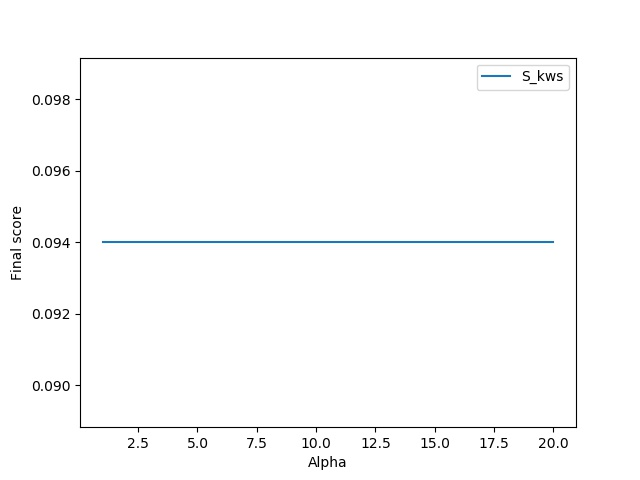
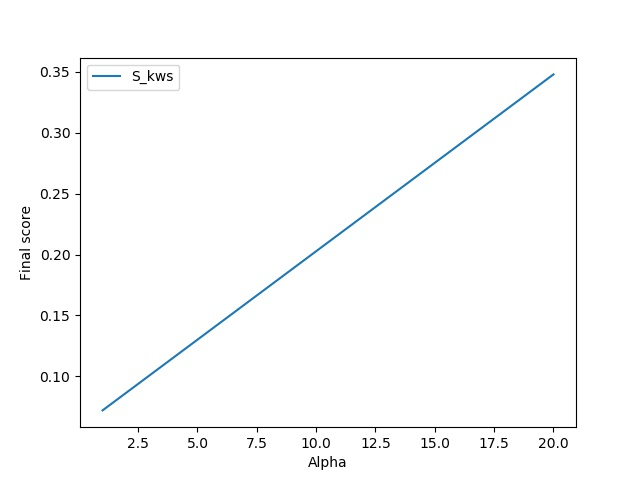
Use cut audio by kws instead of raw audio to determine sv threshold.  Update the final scores.

diff --git a/sv_part/inference.py b/sv_part/inference.py
@@ -72,8 +72,8 @@ parser.add_argument('--nOut',           type=int,   default=512,    help='Embedd
 
 ## inference parameters
 parser.add_argument('--trials_list',    type=str,   default="",     help='trials file for pvtc');
-parser.add_argument('--utt2wav',        type=str,   default="",     help='flie path for trails data')
-parser.add_argument('--uttpath',        type=str,   default="",     help='flie path for trails data')
+parser.add_argument('--devdatapath',    type=str,   default="",     help='flie path for dev data')
+parser.add_argument('--uttpath',        type=str,   default="",     help='flie path for splited data')
 parser.add_argument('--utt2label',      type=str,   default="",     help='judgement result from kws system')
 parser.add_argument('--eolembd_save',   type=str,   default="",     help='save path for enrollment embds')
 parser.add_argument('--save_dic',       type=bool,  default=True,    help='whether save embds for enrollment data')
@@ -203,7 +203,7 @@ if args.inference == True:
     if(os.path.exists(eolembd_savepath)):
         enroll_dic = numpy.load(eolembd_savepath,allow_pickle=True).item()
     else:
-        enroll_dic = s.enrollment_dic_kwsTrials(args.trials_list,args.uttpath,utt2label,eolembd_savepath,10,save_dic=args.save_dic)
+        enroll_dic = s.enrollment_dic_kwsTrials(args.trials_list,args.devdatapath,utt2label,eolembd_savepath,10,save_dic=args.save_dic)
 
     output_score = []
     labels = []
@@ -213,8 +213,7 @@ if args.inference == True:
 
 
     tsatrt = time.time()
-    for line in tqdm.tqdm(lines[0:40000]):
-        # Only use 40000 lines of trial file, because the back contains stitched audio
+    for line in tqdm.tqdm(lines):
         data = line.strip().split()
         final_labels.append(data[4])
         if utt2label[data[3]] == 'negative':
@@ -222,7 +221,7 @@ if args.inference == True:
             continue
         else:
             with torch.no_grad():
-                uttid = data[3]
+                uttid = data[3]+'.wav'
                 if uttid not in eval_dic:
                     inp = torch.FloatTensor(loadWAV(args.uttpath+uttid,0,True,10)).cuda()
                     eval_embd = s.__S__.forward(inp).cpu().numpy()

diff --git a/SV_README.md b/SV_README.md
@@ -69,8 +69,8 @@ We provide the text-dependent finetuned model after 35 epoch pre-training and 10
 You can also download a text-dependent speaker model from [here](). EER(Equal Error Rate) of the text-dependent model based on task1 is `1.1200`. -->
 | Model |    Task | EER(%) | Download Link |
 | :-----|  :----: |:----: | :----: |
-| text-dependent | Taks1 |`1.2000` | [BaiduCloud](https://pan.baidu.com/s/102L_ciIQTmGJRlSo9Yu7EA) |
-| text-dependent | Taks2 |`1.8800` | [BaiduCloud](https://pan.baidu.com/s/102L_ciIQTmGJRlSo9Yu7EA) |
+| text-dependent | Taks1 |`1.4817` | [BaiduCloud](https://pan.baidu.com/s/102L_ciIQTmGJRlSo9Yu7EA) |
+| text-dependent | Taks2 |`2.5650` | [BaiduCloud](https://pan.baidu.com/s/102L_ciIQTmGJRlSo9Yu7EA) |
 
 The access code is `ayez`
 
@@ -79,10 +79,10 @@ The access code is `ayez`
 1. Once the speaker verfication system is obtained, the threshold of the system is determined based on the given task.
 ```
 $ cd ./sv_part
-$ CUDA_VISIBLE_DEVICES=<gpu> python ./inference.py --inference  --model ResNetSE34v2 --log_input True --encoder_type ASP --trainfunc amsoftmax --save_path <path_task> --nClasses 300 --augment True --n_mels 80 --lr_decay 0.2 --lr 0.01  --initial_model <finetuned_model> --scale 32 --margin 0.2  --optimizer sgd --trials_list <pvtc_trial> --uttpath <path of dev utt> --utt2label <utt2label_template>  --save_dic True
+$ CUDA_VISIBLE_DEVICES=<gpu> python ./inference.py --inference  --model ResNetSE34v2 --log_input True --encoder_type ASP --trainfunc amsoftmax --save_path <path_task> --nClasses 300 --augment True --n_mels 80 --lr_decay 0.2 --lr 0.01  --initial_model <finetuned_model> --scale 32 --margin 0.2  --optimizer sgd --devdatapath <path of dev utt> --trials_list <pvtc_trial> --uttpath <path of cut utt> --utt2label <utt2label_template>  --save_dic True
 $ cd ../
 ```
-By running the above code, the threthold of the system and the speaker embedding of the enrollment data in the trial file will be calculated and saved under <path_task>. Note that <path_task> is the path for saving threshold (not the model).We suggest set the `uttpath` parameter as `PVTC/official_data/dev/taskX/wav_data/`, which is the raw audio in tasks.
+By running the above code, the threthold of the system and the speaker embedding of the enrollment data in the trial file will be calculated and saved under <path_task>. Note that <path_task> is the path for saving threshold (not the model).We suggest set the `devdatapath` parameter as `PVTC/official_data/dev/taskX/wav_data/`, which is the raw audio in tasks in order to extract embeddings of enrollment utterances in trial file. The `uttpath` needs to be set as the positive part audio cut by your kws system.
 
 
 
@@ -99,10 +99,10 @@ PVTC_task1_22238.wav negative
 2. Now we can calculate the final score `S` if you have the result from the keyword spotting system.
 ```
 $ cd ./sv_part
-$ CUDA_VISIBLE_DEVICES=<gpu> python ./compute_score.py --inference  --model ResNetSE34v2 --log_input True --encoder_type ASP --trainfunc amsoftmax --save_path <path_task> --nClasses 300 --augment True --n_mels 80 --lr_decay 0.2 --lr 0.01  --initial_model <finetuned_model> --scale 32 --margin 0.2  --optimizer sgd --trials_list <pvtc_trial> --uttpath <path of dev utt>  --utt2label <utt2label>  --save_dic False --parameter_savepath "eer_threshold.npy"  --alpha 1,10,15,19,20
+$ CUDA_VISIBLE_DEVICES=<gpu> python ./compute_score.py --inference  --model ResNetSE34v2 --log_input True --encoder_type ASP --trainfunc amsoftmax --save_path <path_task> --nClasses 300 --augment True --n_mels 80 --lr_decay 0.2 --lr 0.01  --initial_model <finetuned_model> --scale 32 --margin 0.2  --optimizer sgd  --devdatapath <path of dev utt> --trials_list <pvtc_trial> --uttpath <path of cut utt>  --utt2label <utt2label>  --save_dic False --parameter_savepath "eer_threshold.npy"  --alpha 1,10,15,19,20
 $ cd ../
 ```
-the `uttpath` needs to be set as the positive part audio split by your kws system.
+the `uttpath` needs to be set as the positive part audio cut by your kws system.
 <!-- The `utt2wav_kws` file is the keyword segment list generated by our keyword spotting system. We replace the sentences in `utt2wav` with those in `utt2wav_kws`. -->
 
 The `utt2label` file is the classification result of the wake-up system, it should contain the utterance index and its classification result, one line per utterance, as follows:
